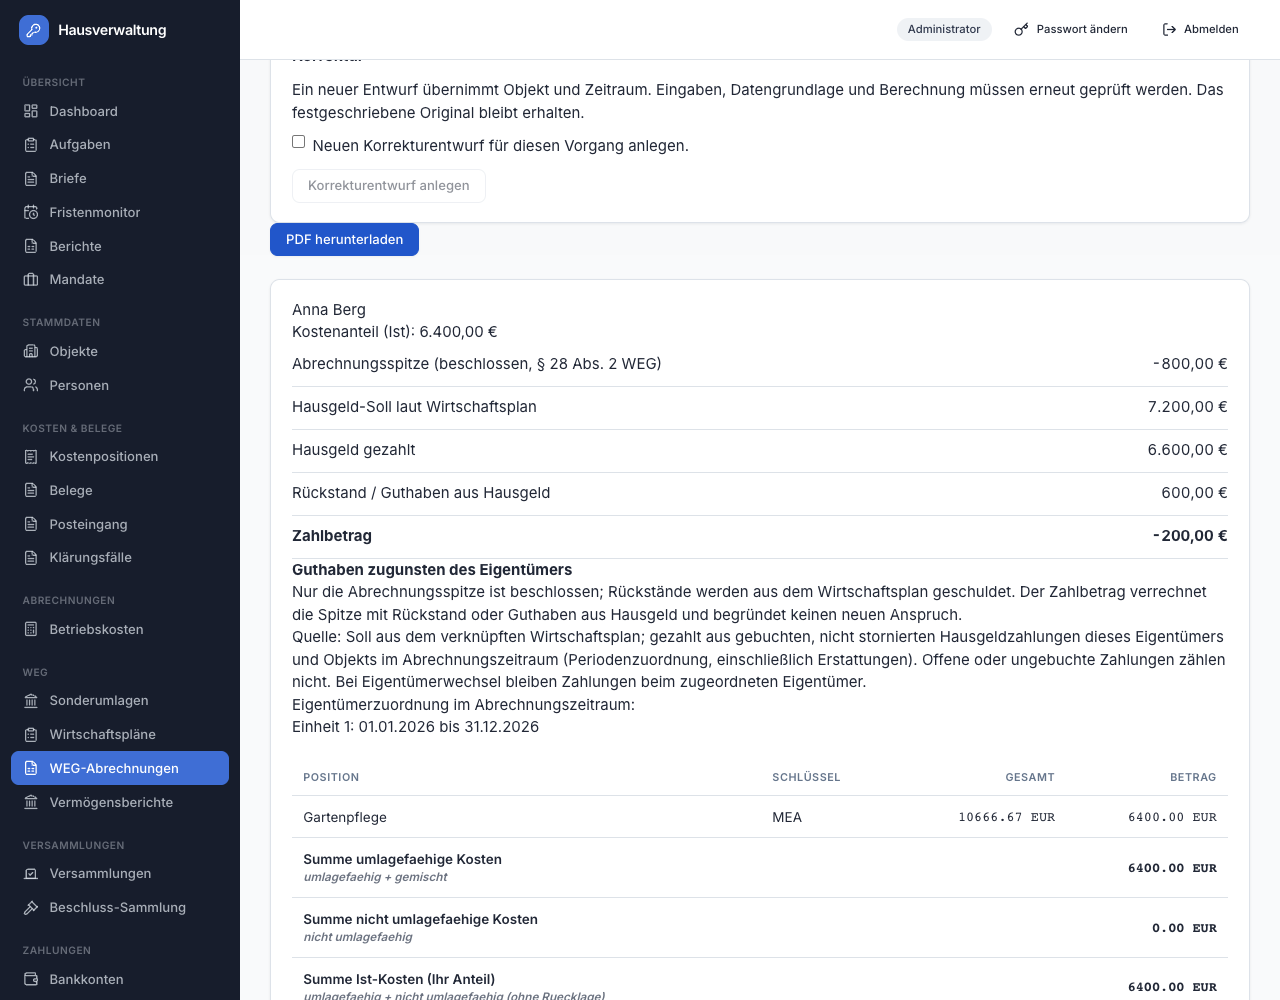
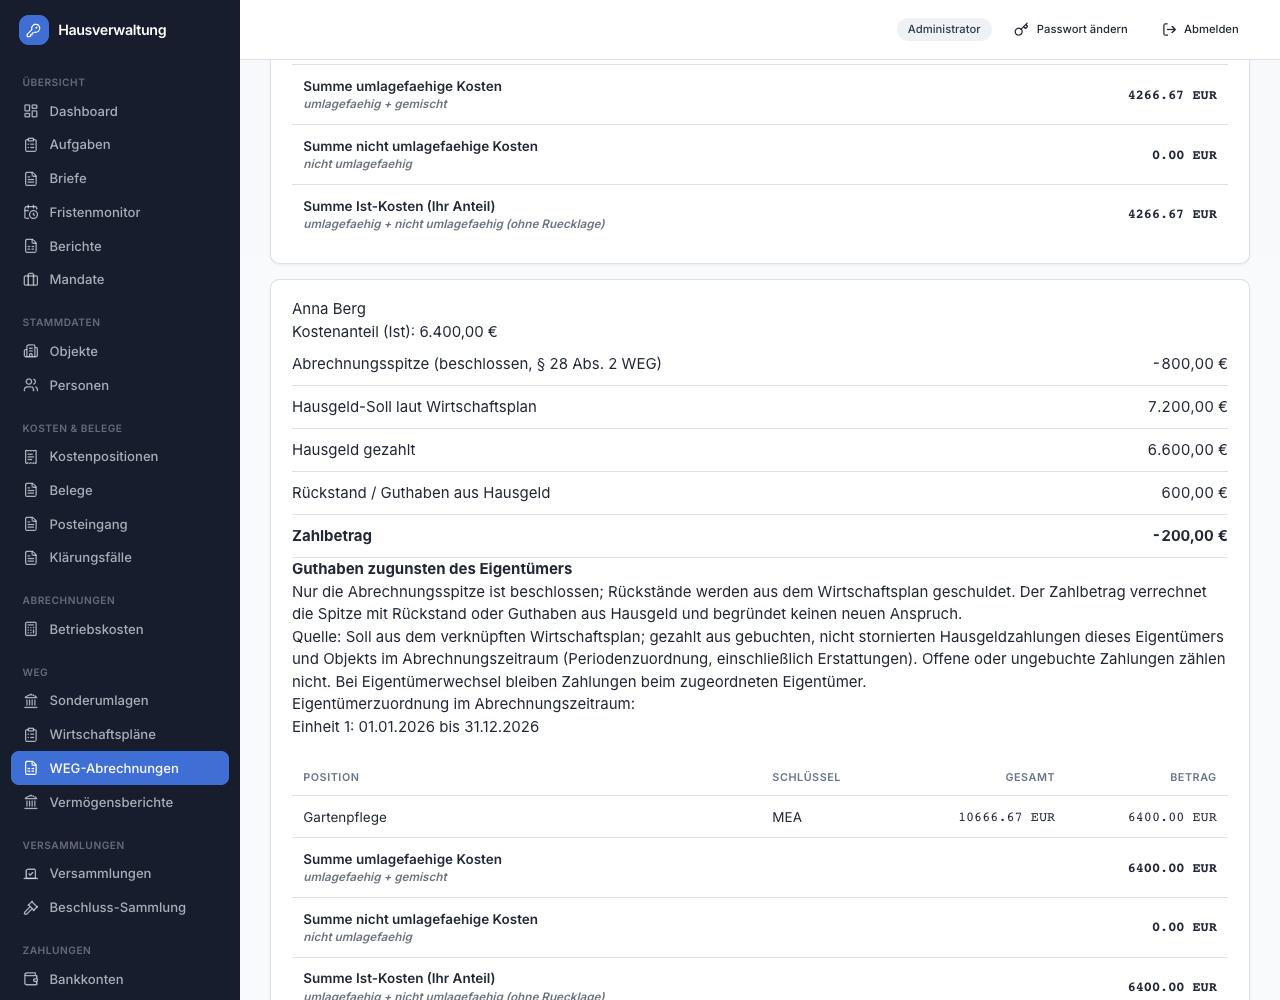
fix(weg): contain individual statements on narrow screens
Mobile statement tables split monetary values across lines and lack a local scroll container. Keep their natural column widths and complete amounts inside each owner card, preserving the owner balance and snapshot content.

Add red-first page and browser regressions for computed and finalized statements with a long owner name. Verify 360 px and 1280 px screenshots, unchanged API output, the existing owner-balance scenario, lint and documentation links.

Refs #188

diff --git a/frontend/src/pages/WegSettlementDetailPage.tsx b/frontend/src/pages/WegSettlementDetailPage.tsx
@@ -257,28 +257,30 @@ export function WegSettlementDetailPage() {
                 {o.ownership_periods.map((p, i) => <p key={i}>Einheit {p.unit_number}: {germanDate(p.valid_from)} bis {germanDate(p.valid_to)}</p>)}
               </section>
             ))}
-            <table className="data-table">
-              <thead><tr><th>Position</th><th>Schlüssel</th><th style={{ textAlign: "right" }}>Gesamt</th><th style={{ textAlign: "right" }}>Betrag</th></tr></thead>
-              <tbody>
-                {ownerLines(oid).filter(l => !run.owner_results?.some(o => o.owner_profile_id === oid) || !["PLAN_ADVANCE", "ABRECHNUNGSSPITZE", "ADVANCE_PAYMENT"].includes(l.line_type)).map((l) => {
-                  const isSummary = l.line_type !== "COST" && l.line_type !== "RESERVE_CONTRIBUTION";
-                  const isSpitze = l.line_type === "ABRECHNUNGSSPITZE";
-                  return (
-                    <tr key={l.id} style={isSummary ? { fontWeight: isSpitze ? 700 : 600 } : undefined}>
-                      <td>
-                        {LINE_LABELS[l.line_type] ?? l.label}
-                        {l.note ? <div style={{ fontSize: "0.78rem", color: "var(--text-muted)", fontStyle: "italic" }}>{l.note}</div> : null}
-                      </td>
-                      <td>{l.distribution_key ?? ""}</td>
-                      <td style={{ fontFamily: "var(--mono)", textAlign: "right" }}>{l.total_amount != null ? `${l.total_amount} EUR` : ""}</td>
-                      <td style={{ fontFamily: "var(--mono)", textAlign: "right", color: isSpitze ? spitzeColor(l.amount) : undefined }}>
-                        {l.amount} EUR
-                      </td>
-                    </tr>
-                  );
-                })}
-              </tbody>
-            </table>
+            <div className="overflow-x-auto">
+              <table className="data-table weg-statement-table">
+                <thead><tr><th>Position</th><th>Schlüssel</th><th style={{ textAlign: "right" }}>Gesamt</th><th style={{ textAlign: "right" }}>Betrag</th></tr></thead>
+                <tbody>
+                  {ownerLines(oid).filter(l => !run.owner_results?.some(o => o.owner_profile_id === oid) || !["PLAN_ADVANCE", "ABRECHNUNGSSPITZE", "ADVANCE_PAYMENT"].includes(l.line_type)).map((l) => {
+                    const isSummary = l.line_type !== "COST" && l.line_type !== "RESERVE_CONTRIBUTION";
+                    const isSpitze = l.line_type === "ABRECHNUNGSSPITZE";
+                    return (
+                      <tr key={l.id} style={isSummary ? { fontWeight: isSpitze ? 700 : 600 } : undefined}>
+                        <td>
+                          {LINE_LABELS[l.line_type] ?? l.label}
+                          {l.note ? <div style={{ fontSize: "0.78rem", color: "var(--text-muted)", fontStyle: "italic" }}>{l.note}</div> : null}
+                        </td>
+                        <td>{l.distribution_key ?? ""}</td>
+                        <td className="whitespace-nowrap" style={{ fontFamily: "var(--mono)", textAlign: "right" }}>{l.total_amount != null ? `${l.total_amount} EUR` : ""}</td>
+                        <td className="whitespace-nowrap" style={{ fontFamily: "var(--mono)", textAlign: "right", color: isSpitze ? spitzeColor(l.amount) : undefined }}>
+                          {l.amount} EUR
+                        </td>
+                      </tr>
+                    );
+                  })}
+                </tbody>
+              </table>
+            </div>
           </div>
         ))
       )}

diff --git a/frontend/src/pages/WegSettlementDetailPage.test.tsx b/frontend/src/pages/WegSettlementDetailPage.test.tsx
@@ -1,6 +1,6 @@
 import { api, ApiError } from "../api/client";
 import { afterEach, expect, it, vi } from "vitest";
-import { act, cleanup, fireEvent, render, screen, waitFor } from "@testing-library/react";
+import { act, cleanup, fireEvent, render, screen, waitFor, within } from "@testing-library/react";
 import { Link, MemoryRouter, Route, Routes } from "react-router-dom";
 import * as endpoints from "../api/endpoints";
 import type { EconomicPlan, OwnerProfile, Person, Property, WegLine, WegRun } from "../api/types";
@@ -61,6 +61,28 @@ function show() {
     <Route path="/weg-abrechnungen/:runId" element={<WegSettlementDetailPage />} />
   </Routes></MemoryRouter>);
 }
+
+it.each(['draft', 'finalized'] as const)('contains every %s owner statement in its own horizontal scroll container', async status => {
+  const hash = '0123456789abcdef'.repeat(4);
+  const ownerName = 'Anna-Katharina Freifrau von Hohenzollern-Sigmaringen';
+  const fetchMock = install([{ ...draft(), status, snapshot_sha256: status === 'finalized' ? hash : null,
+    lines: [frozenLine('seller', seller, '7200.00'), frozenLine('buyer', buyer, '4800.00')] }]);
+  const original = fetchMock.getMockImplementation()!;
+  fetchMock.mockImplementation((url, init) => url === '/api/persons'
+    ? Promise.resolve(json(people.map(person => person.id === profiles[0].person_id
+      ? { ...person, first_name: 'Anna-Katharina', last_name: 'Freifrau von Hohenzollern-Sigmaringen' } : person)))
+    : original(url, init));
+  show();
+  const owner = await screen.findByRole('heading', { name: ownerName });
+  expect(owner.closest('.settlement-detail')).not.toBeNull();
+  for (const name of [ownerName, 'Berta Neu']) {
+    const heading = screen.getByRole('heading', { name });
+    const table = within(heading.parentElement!).getByRole('table');
+    expect(table.parentElement).toHaveClass('overflow-x-auto');
+  }
+  expect(within(owner.parentElement!).getByRole('cell', { name: '7200.00 EUR' })).toBeVisible();
+  if (status === 'finalized') expect(screen.getByText(hash)).toBeVisible();
+});
 
 it("shows the frozen Hausgeld balance separately from the resolved Spitze", async () => {
   const run = { ...draft(), status: "finalized" as const,

diff --git a/frontend/src/index.css b/frontend/src/index.css
@@ -932,6 +932,9 @@ code {
   .settlement-detail .data-table { table-layout: fixed; }
   .settlement-detail .data-table th,
   .settlement-detail .data-table td { overflow-wrap: anywhere; }
+  .settlement-detail .weg-statement-table { table-layout: auto; }
+  .settlement-detail .weg-statement-table th,
+  .settlement-detail .weg-statement-table td { overflow-wrap: normal; }
 }
 
 /* Bounded master-data lists retain table columns inside the mobile viewport. */

diff --git a/backend/tests/bdd/test_weg_settlement.py b/backend/tests/bdd/test_weg_settlement.py
@@ -2,7 +2,7 @@
 from pathlib import Path
 
 import pytest
-from pytest_bdd import given, when, then, scenario, scenarios
+from pytest_bdd import given, when, then, scenario, scenarios, parsers
 
 from tests.bdd.steps.browser_setup import create
 from tests.bdd.steps.records import create_person
@@ -125,7 +125,12 @@ def weg_balance(world, seed_data):
     return create_balance_world(world, seed_data)
 
 
-def create_balance_world(world, seed_data, *, cost_period_end='2026-12-31'):
+@given("Anna-Katharina Freifrau von Hohenzollern-Sigmaringen has Anna's WEG plan and costs", target_fixture='weg_balance')
+def long_owner_balance(world, seed_data):
+    return create_balance_world(world, seed_data, owner_name='Anna-Katharina Freifrau von Hohenzollern-Sigmaringen')
+
+
+def create_balance_world(world, seed_data, *, cost_period_end='2026-12-31', owner_name='Anna Berg'):
     world.actor = world.administrator_of('Verwaltung Alpha')
     world.actor_organization = 'Verwaltung Alpha'
     user = str(seed_data['user_a_admin_id'])
@@ -135,7 +140,7 @@ def create_balance_world(world, seed_data, *, cost_period_end='2026-12-31'):
             'grants': [{'user_id': user, 'capabilities': ['read', 'prepare', 'approve', 'export'],
                         'reason': 'Synthetic settlement'}]}}, keyed=True)
     owners, units = [], []
-    for number, mea, name in [('1', '600', 'Anna Berg'), ('2', '400', 'Berta Vollständig')]:
+    for number, mea, name in [('1', '600', owner_name), ('2', '400', 'Berta Vollständig')]:
         unit = create(world, '/api/units', {'property_id': home['id'], 'number': number,
             'usage_type': 'WOHNUNG', 'mea': mea, 'area': '100'})
         units.append(unit['id'])
@@ -358,3 +363,83 @@ def balance_browser(browser_world, weg_balance):
         await popup.close()
         assert not console_errors, console_errors
     b.run(check())
+
+
+@when(parsers.parse('I prepare their {state} WEG annual settlement'))
+def prepare_long_statement(world, weg_balance, state):
+    assert state in ('computed', 'finalized')
+    values = {'paid_advances': [{'owner_profile_id': owner, 'paid_total': amount}
+                              for owner, amount in zip(weg_balance['owners'], ('6600.00', '4800.00'))]}
+    world.run(attest_fixture(world.actor, 'settlement', weg_balance['run'], values))
+    action = 'compute' if state == 'computed' else 'finalize'
+    response = world.act('POST', f"/api/weg-settlements/{weg_balance['run']}/{action}", json=values)
+    assert response.status_code == 200, response.text
+    weg_balance.update(statement=response.json(), display_state=state)
+
+
+@then("the long owner's statement and whole snapshot hash fit desktop and a 360 pixel phone")
+def long_statement_browser(browser_world, world, weg_balance):
+    import os
+    from playwright.async_api import expect
+
+    b, w = browser_world, weg_balance
+    name = 'Anna-Katharina Freifrau von Hohenzollern-Sigmaringen'
+    failures = []
+    console_errors = []
+
+    async def check():
+        b.page.on('console', lambda message: console_errors.append(message.text) if message.type == 'error' else None)
+        await b.visit(f"/weg-abrechnungen/{w['run']}")
+        for width in (1280, 360):
+            await b.page.set_viewport_size({'width': width, 'height': 1000})
+            if width == 360:
+                await b.page.wait_for_function("document.querySelector('aside').getBoundingClientRect().right <= 0")
+            heading = b.page.get_by_role('heading', name=name, exact=True)
+            await expect(heading).to_be_visible()
+            card = heading.locator('..')
+            await expect(card.get_by_role('cell', name='6400.00 EUR', exact=True).first).to_be_visible()
+            await expect(card.get_by_role('region', name=f'Hausgeld-Abgleich · {name}')).to_contain_text('7.200,00')
+            if w['statement']['snapshot_sha256']:
+                digest = b.page.locator('code').filter(has_text=w['statement']['snapshot_sha256'])
+                await expect(digest).to_be_visible()
+                assert await digest.evaluate('''el => {
+                    const range = document.createRange();
+                    range.selectNodeContents(el);
+                    const card = el.closest('.card').getBoundingClientRect();
+                    return Array.from(range.getClientRects()).every(r => r.left >= card.left && r.right <= card.right);
+                }'''), 'Snapshot hash extends beyond its card'
+            if os.environ.get('VERWALINO_CAPTURE_DESIGN') == '1':
+                directory = Path(__file__).resolve().parents[3] / 'docs/assets/design/weg-statements'
+                directory.mkdir(parents=True, exist_ok=True)
+                if w['display_state'] == 'finalized':
+                    await digest.locator('..').locator('..').screenshot(path=str(directory / f'hash-after-{width}.png'))
+                height = await card.evaluate('el => Math.ceil(el.getBoundingClientRect().height) + 200')
+                await b.page.set_viewport_size({'width': width, 'height': max(1000, height)})
+                await card.screenshot(path=str(directory / f"{w['display_state']}-after-{width}.png"))
+                await b.page.set_viewport_size({'width': width, 'height': 1000})
+            if not await b.page.locator('main').evaluate('(el) => el.scrollWidth <= el.clientWidth'):
+                failures.append(f'{width}: main content overflows')
+            for table in await card.locator('table').all():
+                if not await table.locator('..').evaluate("el => ['auto', 'scroll'].includes(getComputedStyle(el).overflowX)"):
+                    failures.append(f'{width}: statement has no horizontal scroll container')
+                amount = table.get_by_role('cell', name='6400.00 EUR', exact=True).first
+                if await amount.evaluate('''el => new Set(Array.from(el.firstChild.textContent, (_, i) => {
+                    const range = document.createRange();
+                    range.setStart(el.firstChild, i); range.setEnd(el.firstChild, i + 1);
+                    return range.getBoundingClientRect().top;
+                })).size > 1'''):
+                    failures.append(f'{width}: amount breaks across lines')
+                await table.locator('..').evaluate('el => { el.scrollLeft = el.scrollWidth; }')
+                assert await amount.evaluate('''el => {
+                    const cell = el.getBoundingClientRect(), container = el.closest('table').parentElement.getBoundingClientRect();
+                    return cell.left >= container.left && cell.right <= container.right + 1;
+                }'''), 'Full amount cannot be reached inside the statement card'
+            if os.environ.get('VERWALINO_CAPTURE_DESIGN') == '1' and width == 360:
+                await b.page.set_viewport_size({'width': width, 'height': max(1000, height)})
+                await card.screenshot(path=str(directory / f"{w['display_state']}-amount-after-{width}.png"))
+                await b.page.set_viewport_size({'width': width, 'height': 1000})
+        assert not failures, failures
+        assert not console_errors and not b.errors, (console_errors, b.errors)
+
+    b.run(check())
+    assert world.look(world.actor, f"/api/weg-settlements/{w['run']}").json() == w['statement']

diff --git a/DESIGN.md b/DESIGN.md
@@ -486,6 +486,22 @@ content uses `min-w-0` plus `truncate` (`DashboardPage.tsx`) or `overflow-wrap: 
 (`.settlement-detail`). Deviation: in the 360 px detail screenshot the units table
 and the document upload button extend beyond their card, so `main` scrolls sideways there.
 
+The WEG settlement detail follows this contract: `settlement-detail` wraps long owner
+names and the complete snapshot SHA-256. Each individual statement uses its own
+`overflow-x-auto` container, natural column widths and unbroken monetary values;
+the table scrolls within the card at 360 px. The owner balance above it keeps its
+wrapping labels and fully visible amounts without horizontal scrolling.
+
+Synthetic long-owner statements from the test database, at 1280 px and 360 px wide
+(the capture height fits the entire owner card):
+
+| State | 1280 px | 360 px |
+| --- | --- | --- |
+| Computed before / after | [before](docs/assets/design/weg-statements/computed-before-1280.png) · [after](docs/assets/design/weg-statements/computed-after-1280.png) | [before](docs/assets/design/weg-statements/computed-before-360.png) · [after](docs/assets/design/weg-statements/computed-after-360.png) |
+| Finalized before / after | [before](docs/assets/design/weg-statements/finalized-before-1280.png) · [after](docs/assets/design/weg-statements/finalized-after-1280.png) | [before](docs/assets/design/weg-statements/finalized-before-360.png) · [after](docs/assets/design/weg-statements/finalized-after-360.png) |
+| Snapshot hash before / after | [before](docs/assets/design/weg-statements/hash-before-1280.png) · [after](docs/assets/design/weg-statements/hash-after-1280.png) | [before](docs/assets/design/weg-statements/hash-before-360.png) · [after](docs/assets/design/weg-statements/hash-after-360.png) |
+| Table scrolled to complete amounts | — | [computed](docs/assets/design/weg-statements/computed-amount-after-360.png) · [finalized](docs/assets/design/weg-statements/finalized-amount-after-360.png) |
+
 ## Components
 
 New screens use the kit components and tokens. Reuse global classes only for what has no kit
